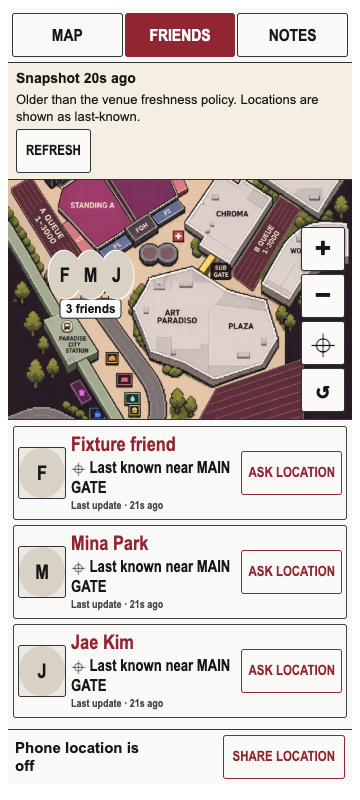
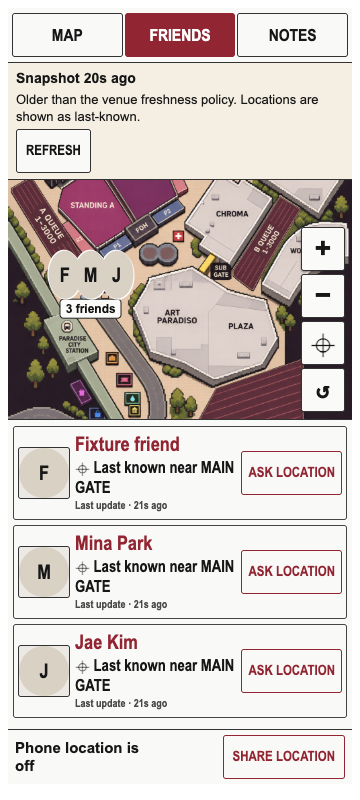
fix(venue): project check-in freshness from the contract fields
- use fresh_until only for PHONE; use expires_at for check-in and LAST_KNOWN
- treat an expired check-in as unavailable instead of last-known
- correct fixtures/tests to contract-valid null fresh_until check-ins
- assert contract-valid cluster and self-marker rendering in browser evidence

Changed region(s): [[0.0917, 0.5312, 0.6722, 0.9062], [0.0917, 0.5625, 0.1222, 0.5938]]

diff --git a/frontend/src/features/paradise-city-map/model/location-adapter.ts b/frontend/src/features/paradise-city-map/model/location-adapter.ts
@@ -96,7 +96,11 @@ export function createVenueLocationAdapter(options: VenueLocationAdapterOptions)
   function person(identity: Identity, location: VisibleLocation | null, now: number, value: LocationSnapshot | null): PersonView {
     const visible = !!location && location.user_id === identity.userId && ms(location.access_until)! > now
     const observation = visible ? ms(location.observed_at) : null
-    const fresh = visible ? Math.min(ms(location.fresh_until) ?? -Infinity, ms(location.expires_at) ?? -Infinity, ms(location.access_until) ?? -Infinity) : null
+    // The frozen wire supplies fresh_until only for PHONE. Check-in and LAST_KNOWN
+    // are current no longer than expires_at; UNAVAILABLE has no current horizon.
+    const horizon = !location ? null : location.source === 'PHONE' ? location.fresh_until
+      : location.source === 'SELF_REPORTED_CHECK_IN' || location.source === 'LAST_KNOWN' ? location.expires_at : null
+    const fresh = visible && horizon !== null ? Math.min(ms(horizon) ?? -Infinity, ms(location.expires_at) ?? -Infinity, ms(location.access_until) ?? -Infinity) : null
     const mapped = visible && value && location.source === 'SELF_REPORTED_CHECK_IN' && location.landmark
       ? reviewed(now, value).find(p => sameSelection(p.grant.selection, location.landmark!.selection)
         && p.grant.provider_id === location.landmark!.provider_id && p.grant.source_revision === location.landmark!.source_revision
@@ -107,7 +111,8 @@ export function createVenueLocationAdapter(options: VenueLocationAdapterOptions)
     const place = mapped && current ? venue.landmarks.find(p => p.id === mapped.landmarkId) : undefined
     return { ...identity, visible: true, point: place?.point ?? null, landmarkId: place?.id ?? null,
       locationSource: !visible || location.source === 'UNAVAILABLE' || observation === null ? 'unavailable'
-        : !current || location.source === 'LAST_KNOWN' ? 'last-known' : location.source === 'PHONE' ? 'phone' : 'check-in',
+        : location.source === 'SELF_REPORTED_CHECK_IN' && !current ? 'unavailable'
+          : !current || location.source === 'LAST_KNOWN' ? 'last-known' : location.source === 'PHONE' ? 'phone' : 'check-in',
       updatedAtMs: observation, freshUntilMs: fresh !== null && Number.isFinite(fresh) ? fresh : null,
       canRequest: identity.userId !== authority.scope.userId && visible && location.can_request_location }
   }

diff --git a/frontend/src/features/paradise-city-map/__tests__/consumer/location-adapter.test.ts b/frontend/src/features/paradise-city-map/__tests__/consumer/location-adapter.test.ts
@@ -63,10 +63,18 @@ it('keeps WGS84 phone positions off the illustrated map', async () => {
   const h = setup(); await h.owner.load(h.abort.signal); expect(h.owner.read()?.friends[0]).toMatchObject({ point: null, landmarkId: null, locationSource: 'phone' })
 })
 it('projects only the exact reviewed self-reported selection onto its explicit ART anchor', async () => {
-  const h = setup(); h.setRaw({ ...h.raw, friends: [{ ...h.raw.friends[0]!, source: 'SELF_REPORTED_CHECK_IN', position: null, landmark: grant }] }); await h.owner.load(h.abort.signal)
+  const h = setup(); h.setRaw({ ...h.raw, friends: [{ ...h.raw.friends[0]!, source: 'SELF_REPORTED_CHECK_IN', position: null, landmark: grant, fresh_until: null }] }); await h.owner.load(h.abort.signal)
   expect(h.owner.read()?.friends[0]?.point).toEqual(testVenue.landmarks[0]!.point); expect(h.owner.read()?.rights.checkIn).toEqual([mainGate])
   h.associations.set({ ...h.associations.read()!, items: [{ landmarkId: mainGate, grant: { ...grant, review_reference: 'different-review' } }] })
   expect(h.owner.read()?.friends[0]?.point).toBeNull()
+})
+it('treats a contract-valid check-in with null fresh_until as current until expires_at', async () => {
+  const h = setup(), checkIn = { ...h.raw.friends[0]!, source: 'SELF_REPORTED_CHECK_IN' as const, position: null, landmark: grant, fresh_until: null }
+  h.setRaw({ ...h.raw, self_location: { ...checkIn, user_id: testScope.userId! }, friends: [checkIn] }); await h.owner.load(h.abort.signal)
+  const friend = h.owner.read()?.friends[0], self = h.owner.read()?.self
+  expect(friend).toMatchObject({ locationSource: 'check-in', point: testVenue.landmarks[0]!.point, freshUntilMs: Date.parse(iso(30000)) })
+  expect(self).toMatchObject({ locationSource: 'check-in', point: testVenue.landmarks[0]!.point, freshUntilMs: Date.parse(iso(30000)) })
+  h.clock.set({ scope: testScope, nowMs: at + 30000 }); expect(h.owner.read()?.friends[0]).toMatchObject({ point: null, locationSource: 'unavailable' }); expect(h.owner.read()?.self?.point).toBeNull()
 })
 it('drops foreign, expired and ambiguous reviewed mappings', async () => {
   const h = setup(); await h.owner.load(h.abort.signal)

diff --git a/frontend/src/features/paradise-city-map/__tests__/browser/fixture.tsx b/frontend/src/features/paradise-city-map/__tests__/browser/fixture.tsx
@@ -32,7 +32,7 @@ const mode = (query.get('mode') ?? 'cluster') as Mode
 function visible(user: string, source: 'PHONE' | 'SELF_REPORTED_CHECK_IN' | 'LAST_KNOWN' | 'UNAVAILABLE', checkIn = false) {
   return { user_id: user, source,
     position: source === 'PHONE' ? { latitude: 37, longitude: 126, accuracy_m: 10, captured_at: iso(-1000), received_at: iso(-500) } : null,
-    landmark: checkIn ? { ...grant } : null, observed_at: iso(-1000), fresh_until: iso(source === 'SELF_REPORTED_CHECK_IN' ? 30000 : 10000),
+    landmark: checkIn ? { ...grant } : null, observed_at: iso(-1000), fresh_until: source === 'PHONE' ? iso(10000) : null,
     expires_at: iso(30000), access_until: iso(60000), visibility_revision: 8, physical_arrival_verified: false as const, can_request_location: true }
 }
 let sharing: 'OFF' | 'ACTIVE' | 'PAUSED' | 'REVOKED' = mode === 'paused' || mode === 'revoked' ? 'ACTIVE' : 'OFF'

diff --git a/.omo/evidence/mcr-finish-project/task-25-map-friends.md b/.omo/evidence/mcr-finish-project/task-25-map-friends.md
@@ -1,8 +1,10 @@
 # Task 25 — Complete the venue Map/Friends client states
 
-Status: **IMPLEMENTED / DEVELOPER-VALIDATED**. Base `cb44bb77c`
-(`feat(venue): wire production shell ports`), branch `codex/mcr-exec-w4-map`.
-No backend, protocol, lockfile or generated-contract change. No push/merge.
+Status: **IMPLEMENTED / DEVELOPER-VALIDATED**. Initial base `cb44bb77c`
+(`feat(venue): wire production shell ports`); rebased onto the updated row 24 tip
+`d890b7755` (`fix(venue): fix the 360 friend fallback and align the landmark gate`).
+Branch `codex/mcr-exec-w4-map`. No backend, protocol, lockfile or generated-contract
+change. No push/merge.
 
 ## Delivered behavior
 
@@ -35,6 +37,27 @@ No backend, protocol, lockfile or generated-contract change. No push/merge.
   normal friend list. The shell now mounts this truthful unavailable panel
   (`production.start` returns true for a denied/offline producer; only a missing
   clock/access keeps the shell closed).
+
+## Check-in freshness correction (post-review)
+
+**Before:** `person()` computed `min(fresh_until, expires_at, access_until)` for every
+source. The frozen producer sets `fresh_until` only for `PHONE`
+(`backend/crates/concert-domain/src/venue_location.rs:373`) and the frozen OpenAPI
+states it is null for check-in/LAST_KNOWN/UNAVAILABLE. A contract-valid check-in
+therefore produced `-Infinity`, `current=false`, and lost its map point: checked-in
+friends never clustered and the self marker never appeared. The first fixture gave
+check-ins a non-null `fresh_until`, masking the defect.
+
+**After:** the client projects the horizon per source: `PHONE` uses `fresh_until`;
+`SELF_REPORTED_CHECK_IN` and `LAST_KNOWN` use `expires_at`; `UNAVAILABLE` has no
+current horizon. An expired check-in becomes `unavailable` (never downgraded to
+last-known), and a stale snapshot still cannot render a current point. Fixtures and
+the adapter test now use contract-valid `fresh_until: null` check-in rows. New
+regressions assert a contract-valid friend and self check-in project onto the
+reviewed anchor until `expires_at`, then disappear, and the browser driver asserts
+the real self marker before pause. After the row 24 rebase, the 360 friend-row
+portrait width changed (48→52px); the three affected 360 captures were regenerated
+and re-inspected, and `sha256.txt` was refreshed.
 
 ## W04 assumption
 
@@ -71,8 +94,8 @@ second consent protocol was invented.
 | --- | --- | --- |
 | `corepack pnpm@11.7.0 install --frozen-lockfile --offline` (Node 24.22.2, shared read-only store) | 0 | 199 packages reused, 0 downloaded; no manifest/lock change |
 | `corepack pnpm@11.7.0 run typecheck` | 0 | `tsc -b --pretty false` |
-| `MCR_VENU_TMP=<private> corepack pnpm@11.7.0 exec vitest run --config src/features/paradise-city-map/__tests__/consumer/vitest.config.ts` | 0 | 5 files, 79 tests passed |
-| `corepack pnpm@11.7.0 exec vitest run src/app/__tests__/venue-shell-ports src/app/__tests__/venue-host-integration --maxWorkers=2` | 0 | 2 files, 13 tests passed (includes the 503-mount case) |
+| `MCR_VENU_TMP=<private> corepack pnpm@11.7.0 exec vitest run --config src/features/paradise-city-map/__tests__/consumer/vitest.config.ts` | 0 | 5 files, 80 tests passed (includes contract-valid check-in self/friend projection) |
+| `corepack pnpm@11.7.0 exec vitest run src/app/__tests__/venue-shell-ports src/app/__tests__/venue-host-integration --maxWorkers=2` | 0 | 2 files, 14 tests passed on the rebased base (includes the 503-mount case) |
 | `corepack pnpm@11.7.0 exec oxlint <changed paths>` | 0 | no errors; one pre-existing `no-control-regex` warning in untouched `art-source/qualify.ts` |
 | `node src/features/paradise-city-map/__tests__/browser/native.mjs` | 0 | PASS, 3 widths × 7 states, 0 page errors, 0 horizontal overflow, 0 sub-44px targets |
 
@@ -86,7 +109,9 @@ report: `task-25-map-friends/report.json` — `result: PASS`,
 
 Captured at 360×800, 390×844, 430×932:
 
-- `clustered-friends-{360,390,430}.png` — three checked-in friends in one cluster.
+- `clustered-friends-{360,390,430}.png` — three contract-valid check-ins in one cluster.
+- `self-marker-{360,390,430}.png` — contract-valid self check-in rendered as “You”
+  with “Sharing with friends”, before pause.
 - `permission-denied-{360,390,430}.png` — denied device permission, no self marker,
   server lease paused, reviewed retry.
 - `paused-{360,390,430}.png` — paused status, self marker removed.
@@ -96,15 +121,17 @@ Captured at 360×800, 390×844, 430×932:
 - `unavailable-503-{360,390,430}.png` — Friends unavailable with the 503 reason,
   never an empty normal list.
 
-Inspection: reviewed every scenario; no overlapping labels, no decorative left
-accents, visible labels legible, all visible buttons ≥44px, no horizontal overflow.
+Inspection: reviewed every scenario, including the contract-valid clustered friends
+and self marker; no overlapping labels, no decorative left accents, visible labels
+legible, all visible buttons ≥44px, no horizontal overflow. `sha256.txt` in this
+directory records the hash of every capture.
 The initial capture exposed the default "Character unavailable" fallback clipping
 inside cluster portraits; the fallback was constrained and the fixture now renders
 deterministic initials. Re-captured after the fix.
 
 ## Limitations / risks
 
-- Browser evidence is a controlled fixture: no live backend, real two-client
+- Browser evidence is a controlled fixture with contract-valid rows: no live backend, real two-client
   revocation transport, device GPS, or physical venue. The server remains the
   authority; the client reflects denials.
 - Cross-client revocation currently arrives through the next authoritative read
